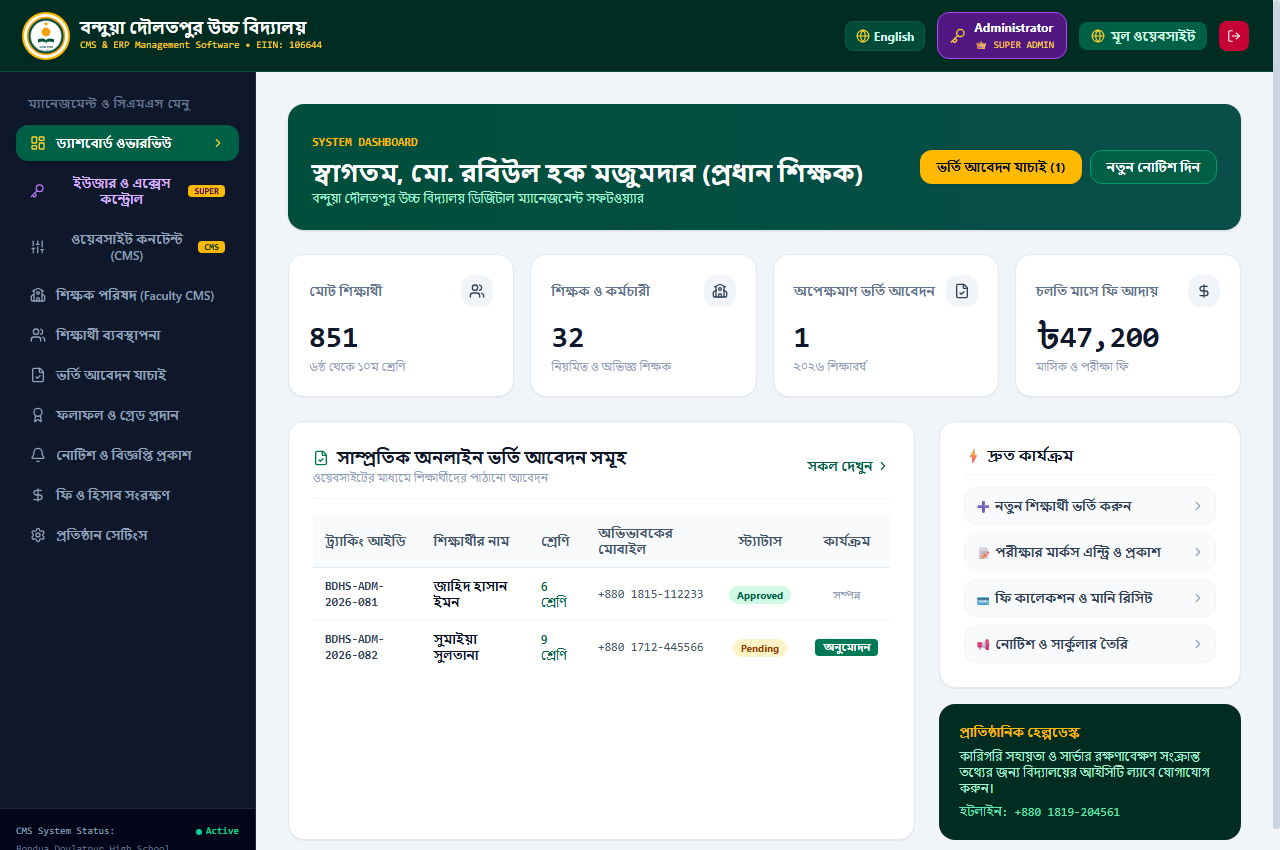
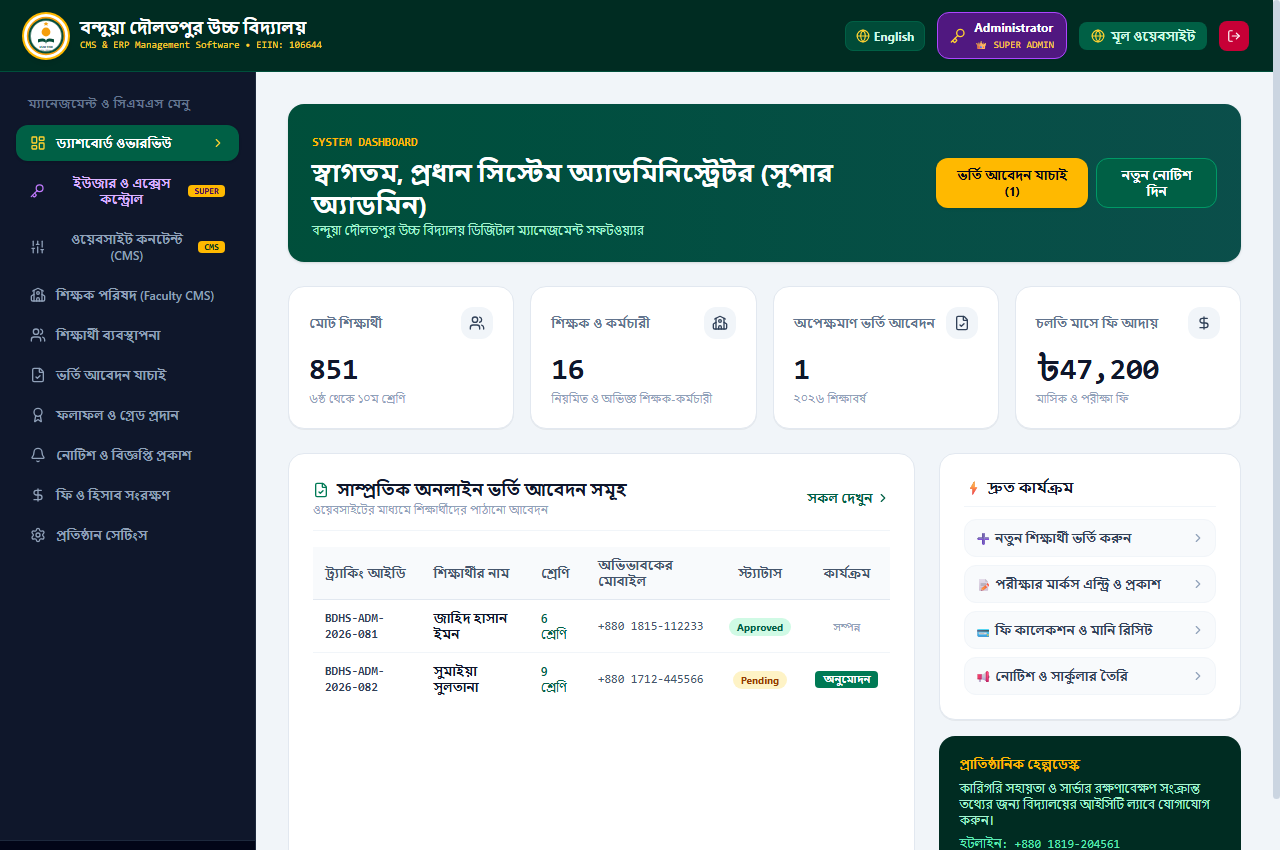
fix: completely remove all references to Robiul Haque Mazumder across the whole site and replace with Bahar Uddin Bhuiyan

diff --git a/src/components/AdminPortal/DashboardOverview.jsx b/src/components/AdminPortal/DashboardOverview.jsx
@@ -9,7 +9,7 @@ import {
 } from 'lucide-react';
 
 export default function DashboardOverview({ onNavigate }) {
-  const { lang, students, teachers, admissions, fees, updateAdmissionStatus } = useSchool();
+  const { lang, students, teachers, admissions, fees, authUser, schoolInfo } = useSchool();
 
   const pendingAdmissions = admissions.filter(a => a.status === 'Pending');
   const totalFeeCollected = fees.reduce((acc, curr) => acc + Number(curr.amount || 0), 0);
@@ -26,8 +26,8 @@ export default function DashboardOverview({ onNavigate }) {
     {
       titleBn: 'শিক্ষক ও কর্মচারী',
       titleEn: 'Faculty Members',
-      value: teachers.length + 16,
-      subtextBn: 'নিয়মিত ও অভিজ্ঞ শিক্ষক',
+      value: teachers.length,
+      subtextBn: 'নিয়মিত ও অভিজ্ঞ শিক্ষক-কর্মচারী',
       icon: School,
       action: 'students'
     },
@@ -56,7 +56,10 @@ export default function DashboardOverview({ onNavigate }) {
         <div>
           <span className="text-amber-400 text-xs font-bold font-mono">SYSTEM DASHBOARD</span>
           <h2 className="text-xl sm:text-2xl font-bold font-bangla text-white mt-1">
-            {lang === 'bn' ? 'স্বাগতম, মো. রবিউল হক মজুমদার (প্রধান শিক্ষক)' : 'Welcome, Md. Rabiul Haque Mazumder'}
+            {lang === 'bn' 
+              ? `স্বাগতম, ${authUser?.nameBn || schoolInfo?.headmasterNameBn || 'জনাব বাহার উদ্দিন ভূঁইয়া'} (${authUser?.designationBn || schoolInfo?.headmasterDesignationBn || 'ভারপ্রাপ্ত প্রধান শিক্ষক'})` 
+              : `Welcome, ${authUser?.nameEn || schoolInfo?.headmasterNameEn || 'Mr. Bahar Uddin Bhuiyan'} (${authUser?.designationEn || schoolInfo?.headmasterDesignationEn || 'Acting Headmaster'})`
+            }
           </h2>
           <p className="text-xs text-emerald-200 font-bangla mt-0.5">
             বন্দুয়া দৌলতপুর উচ্চ বিদ্যালয় ডিজিটাল ম্যানেজমেন্ট সফটওয়্যার

diff --git a/src/context/SchoolContext.jsx b/src/context/SchoolContext.jsx
@@ -60,7 +60,22 @@ export function SchoolProvider({ children }) {
       }
     }
     const saved = localStorage.getItem('bdhs_auth');
-    return saved ? JSON.parse(saved) : null;
+    if (saved) {
+      try {
+        const parsed = JSON.parse(saved);
+        if (parsed.nameBn && parsed.nameBn.includes('রবিউল')) {
+          parsed.nameBn = 'জনাব বাহার উদ্দিন ভূঁইয়া';
+          parsed.nameEn = 'Mr. Bahar Uddin Bhuiyan';
+          parsed.designationBn = 'ভারপ্রাপ্ত প্রধান শিক্ষক';
+          parsed.designationEn = 'Acting Headmaster';
+          localStorage.setItem('bdhs_auth', JSON.stringify(parsed));
+        }
+        return parsed;
+      } catch {
+        return null;
+      }
+    }
+    return null;
   });
   const [authModalOpen, setAuthModalOpen] = useState(false);
 

diff --git a/src/data/initialData.js b/src/data/initialData.js
@@ -671,8 +671,8 @@ export const initialVideos = [
   },
   {
     id: "vid-02",
-    titleBn: "প্রধান শিক্ষক মো. রবিউল হক মজুমদারের দিকনির্দেশনামূলক বক্তব্য",
-    titleEn: "Headmaster's Keynote Address to SSC Candidates",
+    titleBn: "ভারপ্রাপ্ত প্রধান শিক্ষক জনাব বাহার উদ্দিন ভূঁইয়ার দিকনির্দেশনামূলক বক্তব্য",
+    titleEn: "Acting Headmaster Mr. Bahar Uddin Bhuiyan's Keynote Address",
     videoUrl: "https://www.youtube.com/embed/dQw4w9WgXcQ",
     duration: "08:20",
     thumbnail: "https://images.unsplash.com/photo-1544717305-2782549b5136?w=600&auto=format&fit=crop&q=80"

diff --git a/src/components/AdminPortal/StudentManager.jsx b/src/components/AdminPortal/StudentManager.jsx
@@ -392,8 +392,8 @@ export default function StudentManager() {
               <div className="pt-2 flex justify-between items-end border-t border-emerald-800/80 text-[10px]">
                 <span className="text-emerald-300 font-mono">Session: 2026</span>
                 <div className="text-center">
-                  <span className="font-serif italic text-amber-300 font-bold text-xs block">Rabiul H.</span>
-                  <span className="text-emerald-300">প্রধান শিক্ষক</span>
+                  <span className="font-serif italic text-amber-300 font-bold text-xs block">Bahar U.</span>
+                  <span className="text-emerald-300">ভারপ্রাপ্ত প্রধান শিক্ষক</span>
                 </div>
               </div>
             </div>

diff --git a/src/components/AdminPortal/FeeManager.jsx b/src/components/AdminPortal/FeeManager.jsx
@@ -266,9 +266,9 @@ export default function FeeManager() {
 
                 <div className="text-center space-y-1">
                   <div className="w-24 border-b border-slate-600 mx-auto pb-1">
-                    <span className="font-serif italic text-emerald-900 font-bold">Rabiul H.</span>
+                    <span className="font-serif italic text-emerald-900 font-bold">Bahar U.</span>
                   </div>
-                  <p className="font-bold text-slate-900">প্রধান শিক্ষক</p>
+                  <p className="font-bold text-slate-900">ভারপ্রাপ্ত প্রধান শিক্ষক</p>
                 </div>
               </div>
             </div>

diff --git a/src/components/ResultSearch.jsx b/src/components/ResultSearch.jsx
@@ -336,7 +336,7 @@ export default function ResultSearch() {
 
                 <div className="text-center space-y-1">
                   <div className="w-28 border-b border-slate-700 mx-auto pb-1">
-                    <span className="font-serif italic text-emerald-900 font-bold text-sm">Rabiul H.</span>
+                    <span className="font-serif italic text-emerald-900 font-bold text-sm">Bahar U.</span>
                   </div>
                   <p className="font-bold text-slate-900 font-bangla">{schoolInfo.headmasterNameBn}</p>
                   <p className="text-slate-600 font-bangla">{schoolInfo.headmasterDesignationBn}</p>

diff --git a/src/components/NoticeBoard.jsx b/src/components/NoticeBoard.jsx
@@ -233,7 +233,7 @@ export default function NoticeBoard() {
 
                   <div className="text-center space-y-1">
                     <div className="w-28 border-b border-slate-700 mx-auto">
-                      <span className="font-serif italic text-emerald-800 text-sm font-bold">Rabiul H.</span>
+                      <span className="font-serif italic text-emerald-800 text-sm font-bold">Bahar U.</span>
                     </div>
                     <p className="font-bold text-slate-800 font-bangla">{schoolInfo.headmasterNameBn}</p>
                     <p className="text-slate-600">{schoolInfo.headmasterDesignationBn}</p>

diff --git a/src/components/OnlineAdmission.jsx b/src/components/OnlineAdmission.jsx
@@ -206,7 +206,7 @@ export default function OnlineAdmission() {
 
                 <div className="text-center space-y-1">
                   <div className="w-32 border-b border-slate-700 mx-auto pb-1">
-                    <span className="font-serif italic text-emerald-900 font-bold text-sm">Rabiul H.</span>
+                    <span className="font-serif italic text-emerald-900 font-bold text-sm">Bahar U.</span>
                   </div>
                   <p className="font-bold text-slate-900">{schoolInfo.headmasterNameBn}</p>
                   <p className="text-slate-600 text-[11px]">{schoolInfo.headmasterDesignationBn}</p>

diff --git a/src/components/AdminPortal/UserManager.jsx b/src/components/AdminPortal/UserManager.jsx
@@ -562,7 +562,7 @@ export default function UserManager() {
                   <input
                     type="text"
                     required
-                    placeholder="যেমন: মো. রবিউল হক মজুমদার"
+                    placeholder="যেমন: জনাব বাহার উদ্দিন ভূঁইয়া"
                     value={formData.nameBn}
                     onChange={(e) => setFormData({ ...formData, nameBn: e.target.value })}
                     className="w-full rounded-lg border border-slate-300 p-2.5 focus:ring-2 focus:ring-purple-500"

diff --git a/README.md b/README.md
@@ -1,6 +1,6 @@
 # বন্দুয়া দৌলতপুর উচ্চ বিদ্যালয় (Bandua Daulatpur High School)
 ### Official Institutional Portal & School ERP Management System
-**EIIN: 106644 • MPO: 905171301 • কুমিল্লা শিক্ষাবোর্ড • আনন্দপুর, ফুলগাজী, ফেনী**
+**EIIN: 106644 • MPO: 105476301 • কুমিল্লা শিক্ষাবোর্ড • আনন্দপুর, ফুলগাজী, ফেনী**
 
 ---
 
@@ -16,7 +16,7 @@ The platform integrates the school's public website with an administrative ERP s
 ### 1. 🏛 Public Institutional Website
 - **School Crest & Brand Identity**: Custom SVG seal with motto ("জ্ঞানই আলো, শিক্ষাই শক্তি"), Comilla Education Board affiliation, EIIN (106644), and establishment year (1990).
 - **Hero Slider**: High-impact campus life, morning assembly, Sheikh Russel Digital Lab, and sports championship banners.
-- **Headmaster's Desk**: Authentic message from Headmaster **মো. রবিউল হক মজুমদার** (Md. Rabiul Haque Mazumder).
+- **Headmaster's Desk**: Authentic message from Acting Headmaster **জনাব বাহার উদ্দিন ভূঁইয়া** (Mr. Bahar Uddin Bhuiyan).
 - **Managing Committee**: Message from the Chairman, Managing Committee.
 - **Breaking Notice Ticker**: Interactive announcement marquee with pause/play.
 - **Notice Board**: Official notices with category filters (Academic, Exam, Admission, Events) and printable letterhead document modal.
